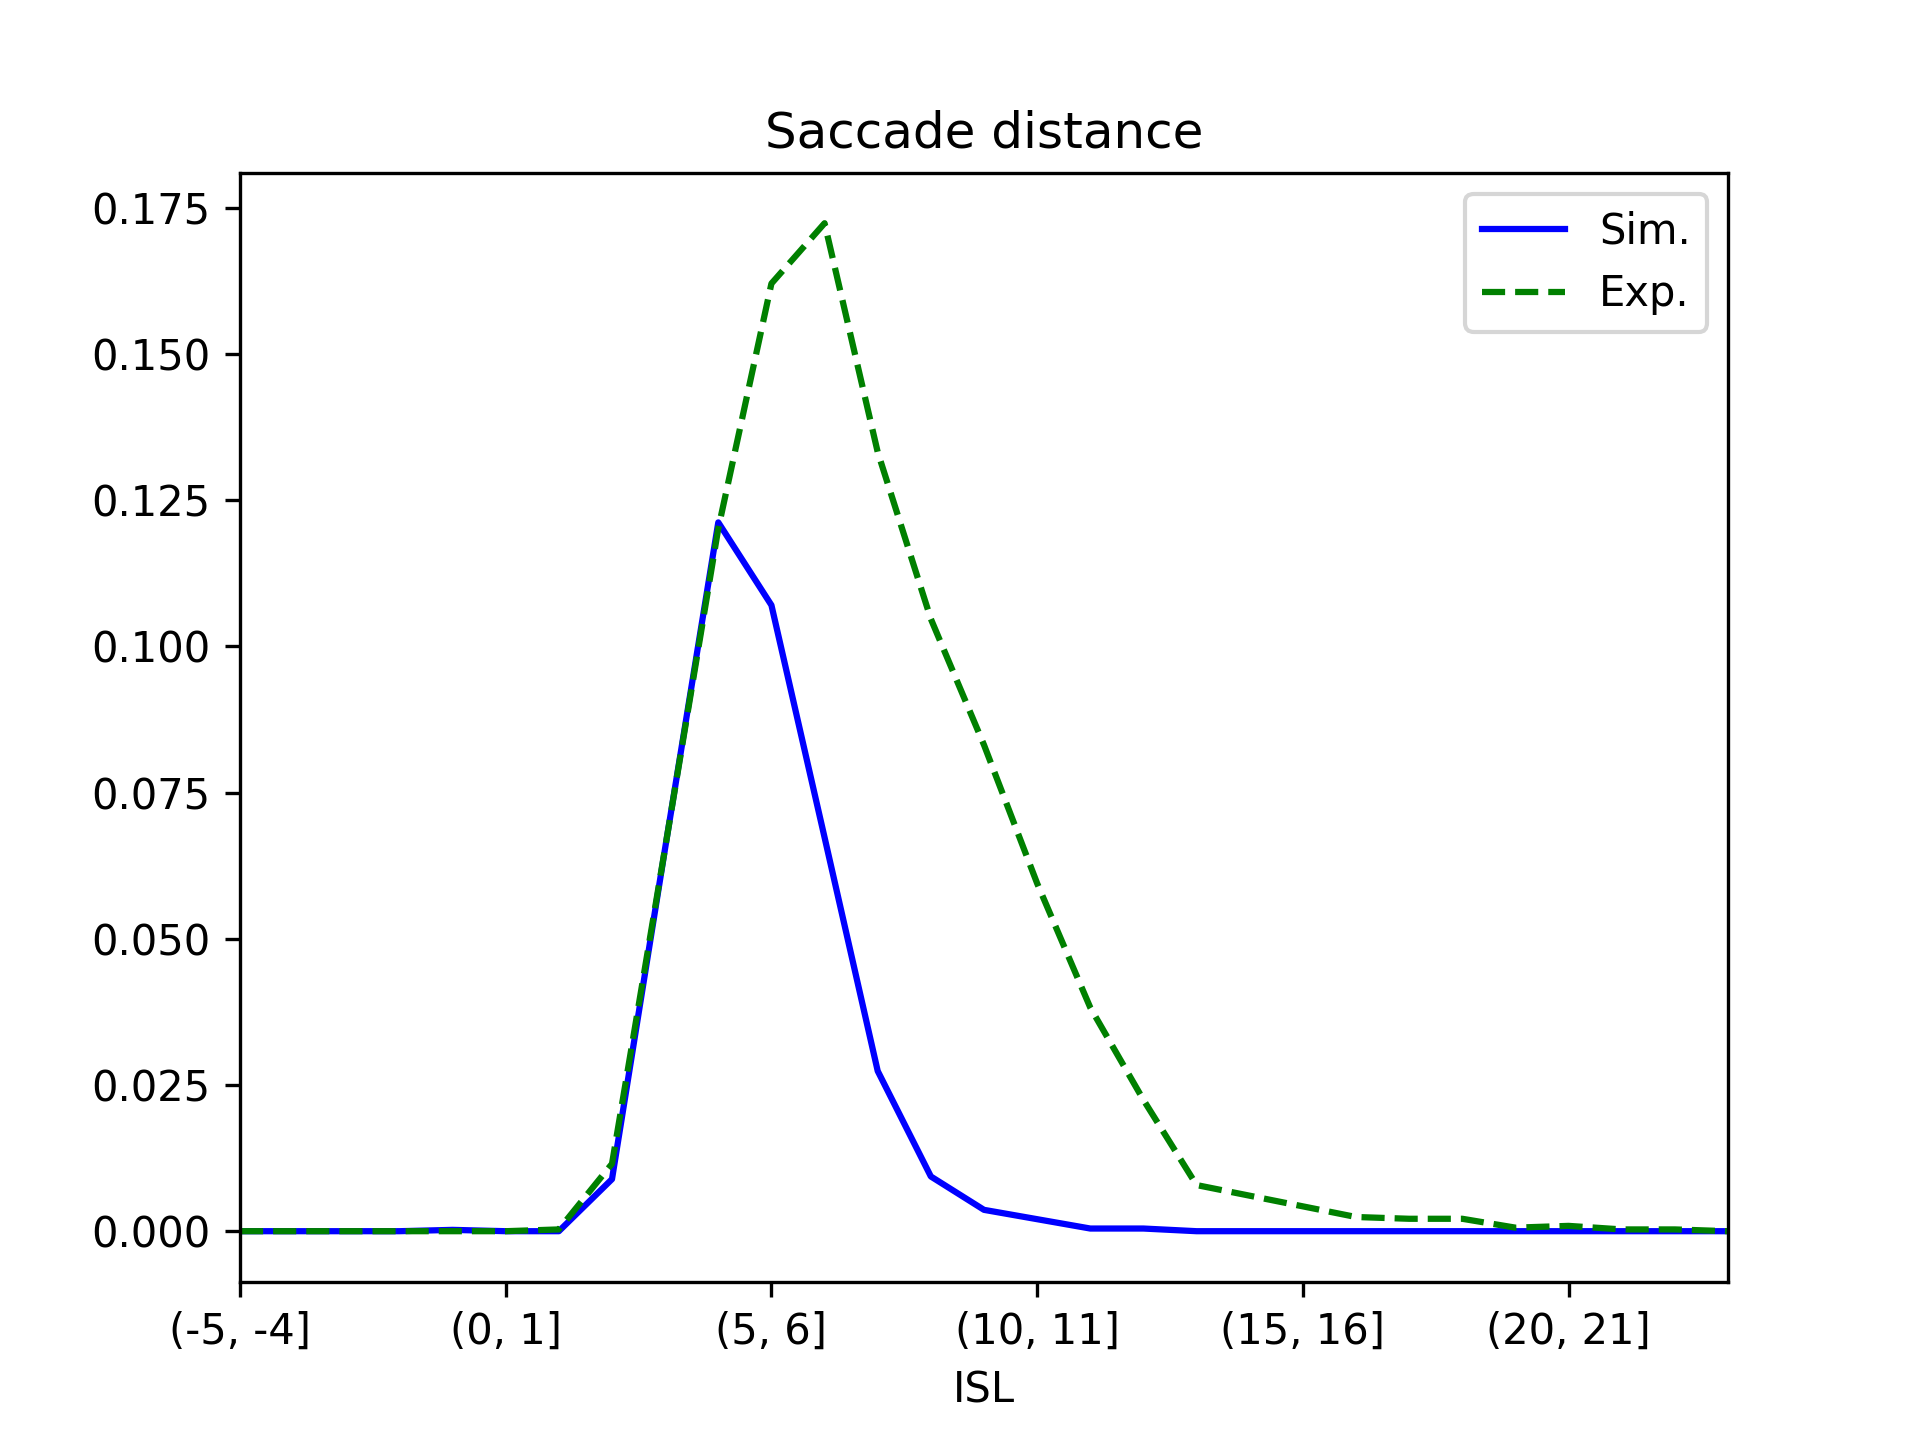
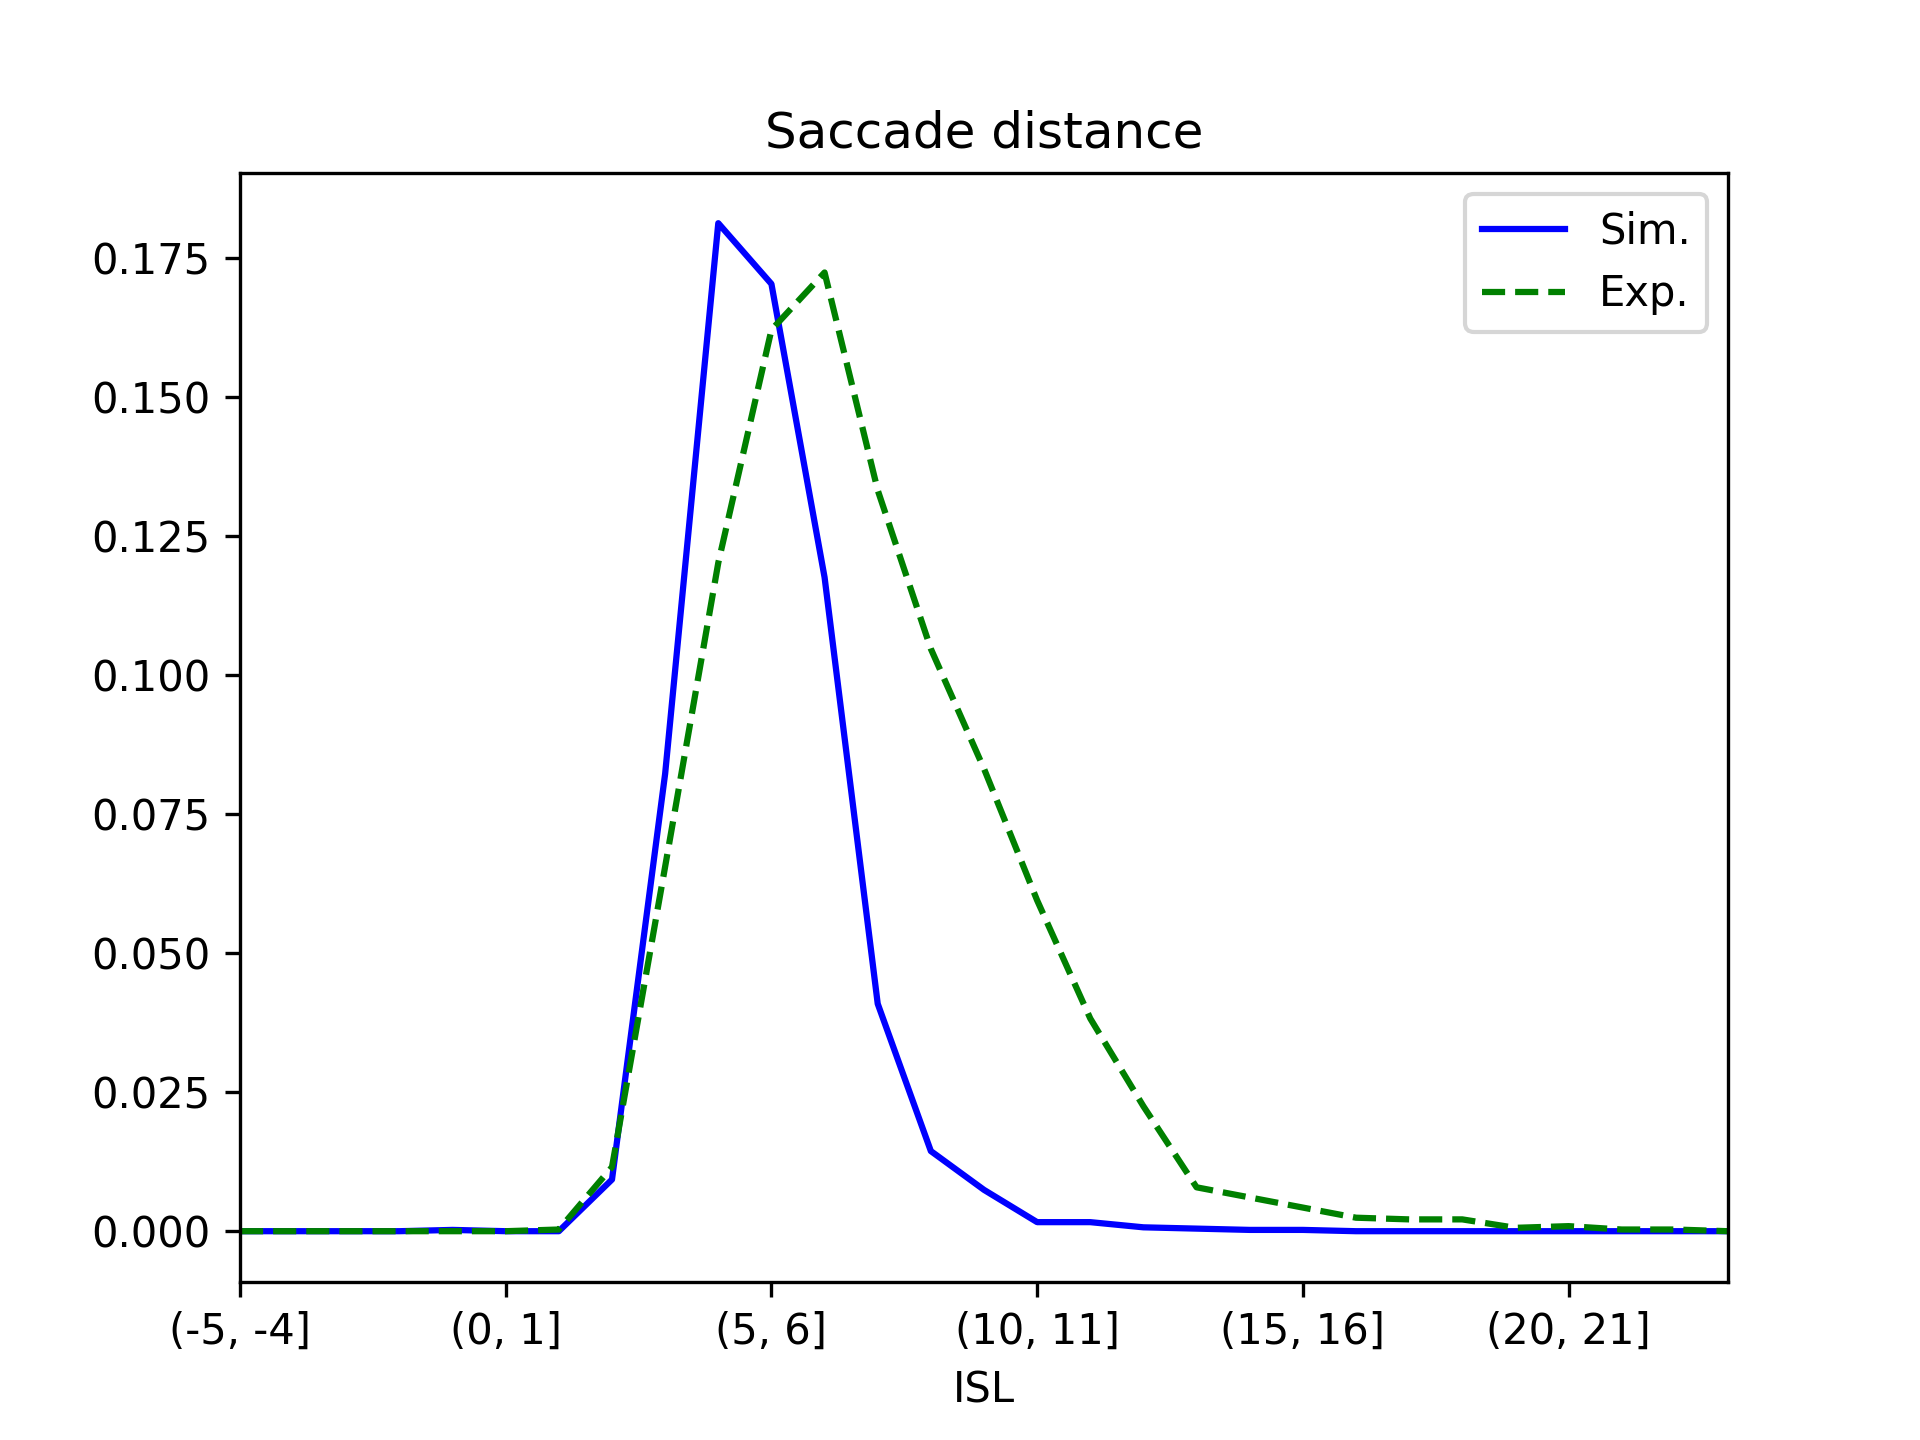
ea unrecogn words

diff --git a/parameters.py b/parameters.py
@@ -48,9 +48,9 @@ print("-------------------")
 
 ## Monoweight = 1
 decay = -0.2 #-0.053
-bigram_to_word_excitation = 2.18 # inp. divded by #ngrams, so this param estimates excit per word [diff from paper]
-bigram_to_word_inhibition = -0.55
-word_inhibition = -0.011 # -0.002
+bigram_to_word_excitation = 3.18 # inp. divded by #ngrams, so this param estimates excit per word [diff from paper]
+bigram_to_word_inhibition = -0.605
+word_inhibition = -0.0146 # -0.002
 
 letPerDeg = .3  # visual degrees per letter (even though name suggests opposite)
 min_activity = 0.0  # what's the min activity of a word node? Leave at 0
